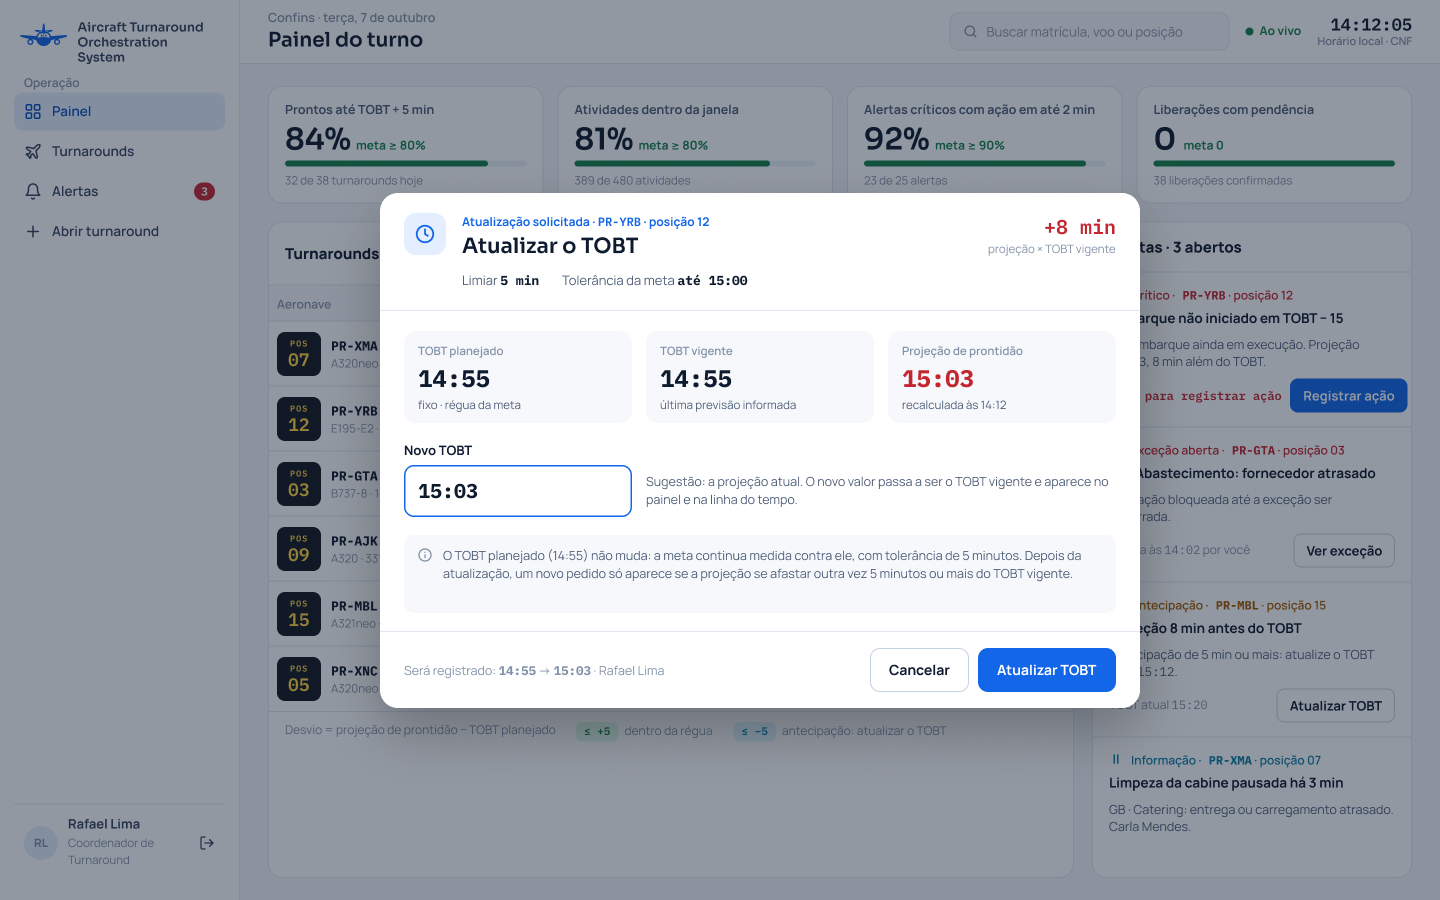
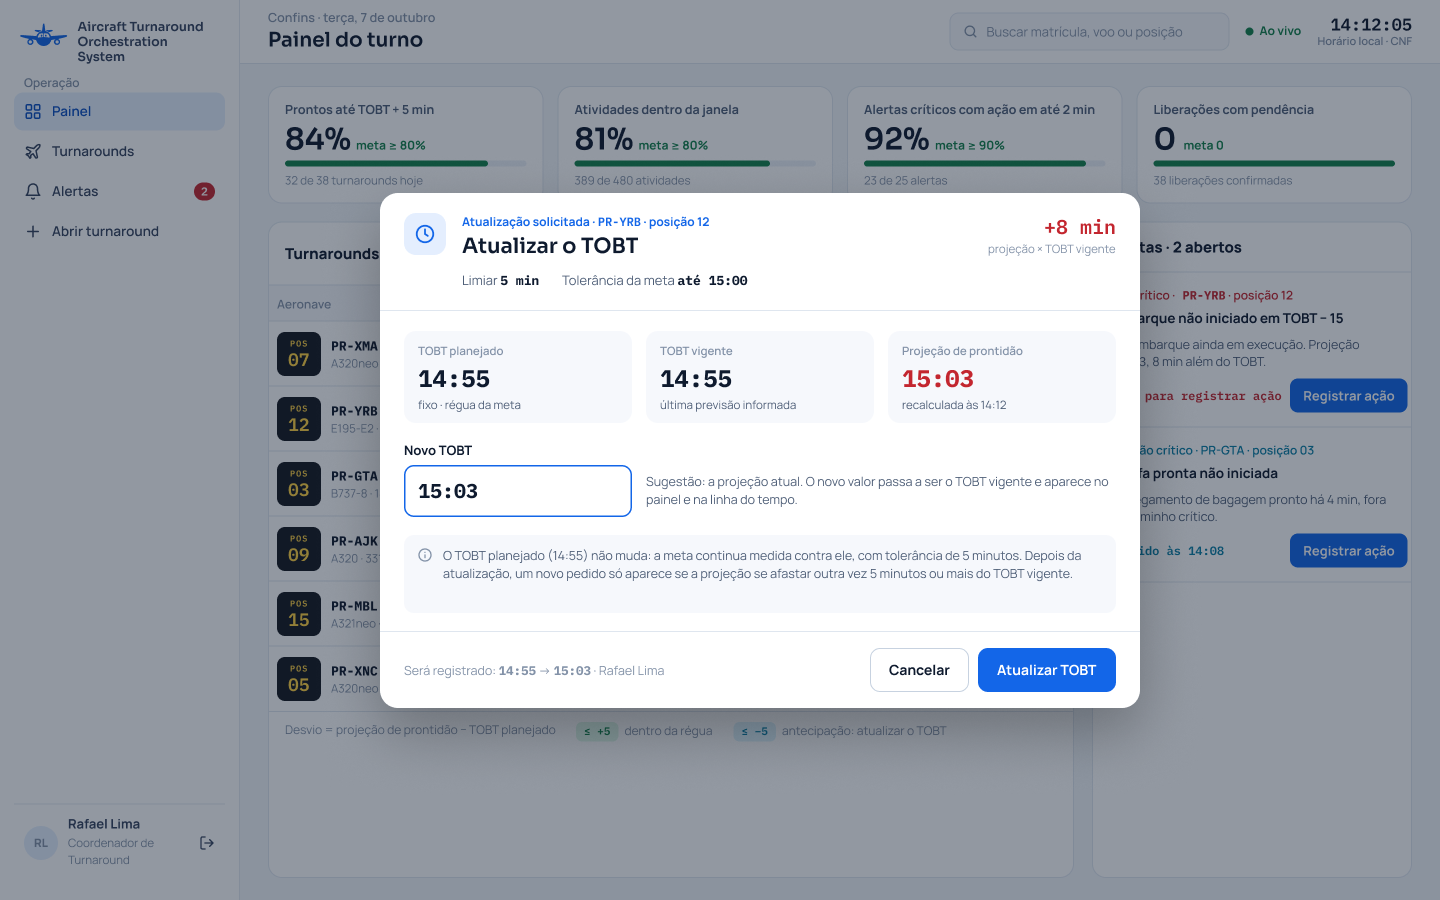
fix(item-10): protótipos da área D alinhados ao UC35 e ao RF-33
- uc-d7: sem a prévia da projeção antes de salvar; a tela diz que a
  projeção e o caminho crítico aparecem depois de gravar (UC35).
- Painel "Alertas" das telas D: só alertas dos RF-27 a RF-31 (RF-33).
- Nome completo do produto de volta nas telas D do Figma.
- uc-d4 v1 apagada (nenhum caso de uso a citava).

Closes #191

diff --git a/especificacao/10-especificacoes-de-caso-de-uso/area-d.md b/especificacao/10-especificacoes-de-caso-de-uso/area-d.md
@@ -483,7 +483,7 @@
 | **Pré-condições** | 1. O Coordenador de Turnaround está autenticado com o perfil de coordenador.<br>2. O turnaround está em "Em solo", "Operações em andamento" ou "Em exceção", com o plano de tarefas definido (UC05).<br>3. Para alterar uma tarefa, ela está no estado "Aguardando" ou "Pronta". |
 | **Pós-condições** | **Sucesso:** a alteração está gravada com o usuário e o horário, e a projeção de prontidão e o caminho crítico foram recalculados e exibidos.<br>**Recusa:** a janela, as dependências e o plano ficam como estavam, e nenhum registro é gravado. |
 | **Regras de negócio** | **RN1.** Só a tarefa ainda não iniciada ("Aguardando" ou "Pronta") pode ter a janela planejada ou as dependências alteradas; a tarefa "Em execução", "Pausada", "Concluída" ou "Não aplicável" é recusada (RF-42; US042, critério 2).<br>**RN2.** Toda alteração grava o usuário e o horário (RF-42).<br>**RN3.** Depois de cada alteração, o Motor de Eventos recalcula a projeção de prontidão e o caminho crítico (UC24), e o sistema os exibe (RF-42).<br>**RN4.** As travas são as do plano inicial: as referências a predecessoras e sucessoras precisam existir e pertencer ao mesmo turnaround (RF-42); a alteração que cria ciclo entre as tarefas é recusada, e o início planejado da sucessora não pode ser anterior ao fim planejado das predecessoras (ADR-0014).<br>**RN5.** A regra de abastecimento com passageiros a bordo do operador aéreo continua valendo: quando ela não permite, não se pode retirar a dependência entre o desembarque e o abastecimento nem entre o abastecimento e o embarque (ADR-0005; UC21, RN7).<br>**RN6.** Depois da alteração das dependências, o estado das tarefas não iniciadas segue as regras de propagação: a tarefa sem predecessora pendente fica "Pronta", e a que ganhou predecessora pendente volta a "Aguardando" (UC21, RN1).<br>**RN7.** Serviço sob demanda (ADR-0014): o Coordenador de Turnaround inclui no plano em andamento uma tarefa do catálogo do modelo de tarefas, com um operador ativo da equipe da tarefa como responsável, janela planejada, dependências e motivo; as sucessoras da tarefa incluída precisam estar ainda não iniciadas (RF-42). Só ele aciona o serviço no sistema; a tripulação e as equipes de solo avisam por fora do sistema. [Fato] Nos contratos de atendimento em solo, parte dos serviços só é prestada quando a companhia pede [69][70][71].<br>**RN8.** A tarefa incluída é uma tarefa como as outras: entra na projeção e no caminho crítico, aparece na lista do operador responsável (UC14) e, se for obrigatória, segura a liberação (UC32). O atraso que ela causar conta na meta de 80% do objetivo 1 (ADR-0014).<br>**RN9.** O Operador de Solo/Rampa executa e registra a tarefa, mas não replaneja (ADR-0014). |
-| **Protótipo(s) de tela** | Replanejamento de uma tarefa, com a janela planejada, as predecessoras e o resultado do recálculo; e acionamento de um serviço sob demanda, com o catálogo, o responsável, a janela, as dependências e o motivo.<br>![UC35 – replanejar tarefas](prototipos/uc-d7-replanejar-tarefas.png) ![UC35 – acionar serviço sob demanda](prototipos/uc-d7-acionar-servico-sob-demanda.png) |
+| **Protótipo(s) de tela** | Replanejamento de uma tarefa, com a janela planejada, as predecessoras e o que acontece depois de salvar (gravação, recálculo e exibição da projeção e do caminho crítico); e acionamento de um serviço sob demanda, com o catálogo, o responsável, a janela, as dependências e o motivo.<br>![UC35 – replanejar tarefas](prototipos/uc-d7-replanejar-tarefas.png) ![UC35 – acionar serviço sob demanda](prototipos/uc-d7-acionar-servico-sob-demanda.png) |
 
 ### Fluxo básico
 

diff --git a/CHANGELOG.md b/CHANGELOG.md
@@ -42,6 +42,7 @@ Cada versão entregue tem uma tag Git `vX.Y.Z` no commit que gerou o PDF enviado
 
 ### Corrigido
 
+- Protótipos da área D (item 10): o uc-d7 mostrava a nova projeção e o caminho crítico antes de salvar, como uma prévia que nenhum RF pede; agora diz que eles aparecem depois de gravar, como no UC35. O painel "Alertas" das telas D misturava a exceção aberta, o pedido de atualização do TOBT (RF-41) e uma tarefa pausada com os alertas; agora mostra só alertas dos RF-27 a RF-31, como o RF-33 e o UC26 definem. As telas D voltam a ter o nome completo do produto no Figma, e a v1 do uc-d4, que nenhum caso de uso citava, foi apagada ([#191](https://github.com/Aircraft-Turnaround-Operations-Manager/aircraft-turnaround-docs/issues/191)).
 - ADR-0012 de volta ao texto original, com a indicação "complementada por ADR-0021". A T03 tinha acrescentado nela a seção "Extensão no RA2" ([#171](https://github.com/Aircraft-Turnaround-Operations-Manager/aircraft-turnaround-docs/pull/171)), mas uma ADR aceita não muda de conteúdo: decisão nova vira ADR nova.
 
 - Revisão do PR [#164](https://github.com/Aircraft-Turnaround-Operations-Manager/aircraft-turnaround-docs/pull/164): os 13 títulos que ainda tinham artigo depois do verbo ficaram sem ele ("Registrar marcos do atendimento em solo"), e os casos de uso com o mesmo nome acompanharam; o UC29 passou a "Abrir exceção do turnaround", par do UC33; no item 9, o UC16 e o UC33 desceram para as setas «include» não cruzarem a elipse e para o rótulo do conjunto aparecer inteiro. As introduções dos itens 6 e 10 passaram a explicar o padrão ARO (e por que o RF-18 e o RF-41 ficam fora dele) e a diferença entre a divisão por serviço do item 10 e o agrupamento por função do item 9. Nenhuma regra de negócio mudou: fora os títulos e nomes, o texto dos RFs, estórias e casos de uso é igual ao da `main`.
